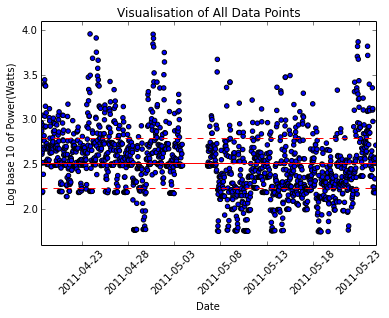
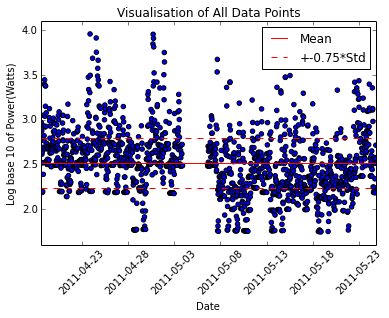
Final update and README added

Changed region(s): [[0.6787, 0.0849, 0.9563, 0.2264]]

diff --git a/challenge2/analysis/danjones/pythonvisualisation.py b/challenge2/analysis/danjones/pythonvisualisation.py
@@ -16,23 +16,47 @@ import scipy.stats as stats
 
 df = pd.read_csv('C:/Users/Dan/Documents/GitHub/EnergyDataSimulationChallenge/challenge2/data/total_watt.csv', header = None)
 
+#function used inside thiryminutes function to draw pie chart (avoids repetition of code)
+def pie(y,m,s,when):
+    low = []  #clustering lists
+    medium = []
+    high = []
+    for i in y:  #for each i and j in power and date respectively
+        if i <= m-0.75*s:  #if the element is classed as low
+            low.append(i)
+        elif i >= m+0.75*s:  #repeat for high values
+            high.append(i)
+        else:
+            medium.append(i)  #repeat for medium values
+    total = len(low) + len(medium) + len(high)
+    frac = []
+    frac.append(100*len(low)/total)  #find fractions that are high, medium and low
+    frac.append(100*len(medium)/total)
+    frac.append(100*len(high)/total)
+    plt.pie(frac, labels = ['Low','Medium','High'])  #plot a pie chart of that data
+    plt.title('Average Power Usage Levels ('+when+')')
+    plt.show()
+
+
+#function to deal with visualisation of thirty minute values (including some clustering)
 def thirtyminutes(data):
     date = []  #create an empty list called date for adding the datetime to
     for row in data[0]:    #scans each row             
         date.append(datetime.strptime(row,"%Y-%m-%d %H:%M:%S"))  #appends the data with the datetime from that row use  %Y-%m-%d (%H:%M)
-    data['Date']=date
-    x = pl.date2num(data['Date'])
+    data['Date']=date  #put into new column called Date
+    x = pl.date2num(data['Date']) #assign x and y values, x date needs to be converted to number
     y = []   
     for i in data[1]:
         y.append(math.log10(i))#log the values because it's slightly clearer than the straight values
-    m = np.mean(y)
-    s = np.std(y)
+    m = np.mean(y) #find the mean
+    s = np.std(y) #find the standard deviation
     plt.scatter(x,y)
-    plt.plot([x.min(), x.max()],[m,m],'r-')
-    plt.plot([x.min(),x.max()],[m+0.75*s, m+0.75*s], 'r--')
+    plt.plot([x.min(), x.max()],[m,m],'r-', label = 'Mean') #plot the mean line
+    plt.plot([x.min(),x.max()],[m+0.75*s, m+0.75*s], 'r--', label = '+-0.75*Std') #plot lines 0.75 time std above and below the mean line
     plt.plot([x.min(),x.max()],[m-0.75*s, m-0.75*s], 'r--')
-    plt.gca().xaxis.set_major_formatter(mdates.DateFormatter('%Y-%m-%d'))
+    plt.gca().xaxis.set_major_formatter(mdates.DateFormatter('%Y-%m-%d')) #convert the x axis back into date form
     plt.xticks(rotation=45)
+    plt.legend(loc = 'best')
     plt.xlabel('Date')
     plt.ylabel('Log base 10 of Power(Watts)')
     plt.title('Visualisation of All Data Points')
@@ -40,93 +64,72 @@ def thirtyminutes(data):
     plt.ylim(1.6,4.1)
     plt.show()
     
-    low = []
-    lowdate = []
-    medium = []
-    meddate= []
-    high = []
-    highdate = []
-    for i,j in zip(y, x):
-        if i <= m-0.75*s:
-            low.append(i)
-            lowdate.append(j)
-        elif i >= m+0.75*s:
-            high.append(i)
-            highdate.append(j)
-        else:
-            medium.append(i)
-            meddate.append(j)
-    total = len(low) + len(medium) + len(high)
-    frac = []
-    frac.append(100*len(low)/total)
-    frac.append(100*len(medium)/total)
-    frac.append(100*len(high)/total)
-    plt.pie(frac, labels = ['Low','Medium','High'])
-    plt.title('Average Power Usage Levels (All Points)')
-    plt.show()
+    pie(y,m,s, 'All Points')
     
-    y = sorted(y)
-    plt.hist(y, bins = 100, normed = True)
+    y = sorted(y)  #sort the y data into numerical order
+    plt.hist(y, bins = 100, normed = True) #plot a histogram
     plt.ylabel('Percentage of Points in Range')
     plt.xlabel('Log Base 10 Power in Watts')
     plt.title('Histogram of 30 Minute Values')
-    fit = stats.norm.pdf(y, np.mean(y), np.std(y))
-    plt.plot(y, fit, 'r-', label = 'Gaussian Line')
+    fit = stats.norm.pdf(y, np.mean(y), np.std(y)) #add a Gaussian fit
+    plt.plot(y, fit, 'r-', label = 'Gaussian Line')  #add a Gaussian line, to see whether the data is close to Gaussian or not
     plt.legend(loc = 'best')
     plt.show()
-    
 thirtyminutes(df)
 
 
 
-
+#function to deal with visualisation of daily data, including clustering
 def daily(data):
-    day = []
+    day = []  #get an empty day list
     for i in data[0]:
-        day.append(datetime.strptime(i[0:10], "%Y-%m-%d"))
+        day.append(datetime.strptime(i[0:10], "%Y-%m-%d"))  #append the date to the day list
     data['Day'] = day
-    uniquedays = list(data.apply(set)['Day'])
+    uniquedays = list(data.apply(set)['Day'])  #create a list of all the days in the list
     dailymean = []
-    for i in uniquedays:
-        dd = data[data['Day'] == i]
+    for i in uniquedays:  #for each day in the list
+        dd = data[data['Day'] == i]  #create a new dataset that only has the date i
         averagepower = []
-        for row in dd[1]:
-            averagepower.append(row)
-        dailymean.append(np.mean(averagepower))
-    x = pl.date2num(uniquedays)
+        for row in dd[1]: #then for each row in the new dataset for each day
+            averagepower.append(row)  #append the power to a new list
+        dailymean.append(np.mean(averagepower))  #then find the mean of the new list, repeat for each day
+    x = pl.date2num(uniquedays)  #x values are now the unique days
     y = dailymean
-    m = np.mean(y)
-    s = np.std(y)
-    plt.bar(x,y)
-    plt.plot([x.min(), x.max()],[m,m],'k-')
-    plt.plot([x.min(),x.max()],[m+0.75*s, m+0.75*s], 'k--')
+    m = np.mean(y) #find mean
+    s = np.std(y) #find standard deviation
+    plt.bar(x,y)  #plot a bar graph
+    plt.plot([x.min(), x.max()],[m,m],'k-', label = 'Mean')  #same lines as in the 30 minute section, mean, std*0.75
+    plt.plot([x.min(),x.max()],[m+0.75*s, m+0.75*s], 'k--', label = '+- 0.75*Std')
     plt.plot([x.min(),x.max()],[m-0.75*s, m-0.75*s], 'k--')
     plt.gca().xaxis.set_major_formatter(mdates.DateFormatter('%Y-%m-%d'))
     plt.xticks(rotation=45)
+    plt.legend(loc = 'best')
     plt.xlabel('Date')
     plt.ylabel('Daily Power Consumption (W)')
     plt.title('Average Daily Power Consumption')
     plt.xlim([x.min(), x.max()])
     plt.show()
     
+    #clustering
+    pie(y,m,s, 'Daily')
     
-    low = []
     lowdate = []
-    medium = []
+    low = []
     meddate= []
-    high = []
+    medium = []
     highdate = []
-    for i,j in zip(y, x):
-        if i <= m-0.75*s:
+    high = []
+    for i,j in zip(y, x):  #for each i and j in power and date respectively
+        if i <= m-0.75*s:  #if the element is classed as low
             low.append(i)
-            lowdate.append(j)
-        elif i >= m+0.75*s:
+            lowdate.append(j) #append it's value and it's date to the low lists respectively.
+        elif i >= m+0.75*s:  #repeat for high values
             high.append(i)
             highdate.append(j)
         else:
-            medium.append(i)
+            medium.append(i)  #repeat for medium values
             meddate.append(j)
-    plt.bar(lowdate,low, color = 'blue', label = 'Low')
+    plt.bar(lowdate,low, color = 'blue', label = 'Low')  #plot a bar graph with the clusters coloured in
     plt.bar(meddate,medium, color = 'green', label = 'Medium')
     plt.bar(highdate,high,color = 'red', label = 'High')
     plt.plot([x.min(), x.max()],[m,m],'k-')
@@ -141,17 +144,20 @@ def daily(data):
     plt.xlim([x.min(), x.max()])
     plt.show()
 
+    x = sorted(x) #sort the x list in date order
+    data['Date2Num'] = pl.date2num(data['Day'])  #create column of date numbers in the dataset
+    weekday = []
+    for i in data['Date2Num']: #for each row in the date number dataset
+        count = -1
+        for j in x: #for each element in the sorted list of unique dates
+            count += 1
+            if count%7 ==0: #this starts the count again every time it hits a monday
+                count = 0
+            if i == j:  #this appends the weekday list with the days corresponding number
+                weekday.append(count)
+    data['Weekday'] = weekday #add the weekday column to the dataset
+    for i,j in zip([0,1,2,3,4,5,6],['Monday','Tuesday','Wednesday','Thursday','Friday','Saturday','Sunday']): #create a pie chart for each day, the list of days and corresponding numbers is evident here  
+         dd = data[data['Weekday'] == i] 
+         pie(dd[1],m,s,j)
+daily(df)  
 
-    total = len(low) + len(medium) + len(high)
-    frac = []
-    frac.append(100*len(low)/total)
-    frac.append(100*len(medium)/total)
-    frac.append(100*len(high)/total)
-    plt.pie(frac, labels = ['Low','Medium','High'])
-    plt.title('Average Daily Power Usage Levels')
-    plt.show()
-daily(df)
-
-    
-#tidy
-    
